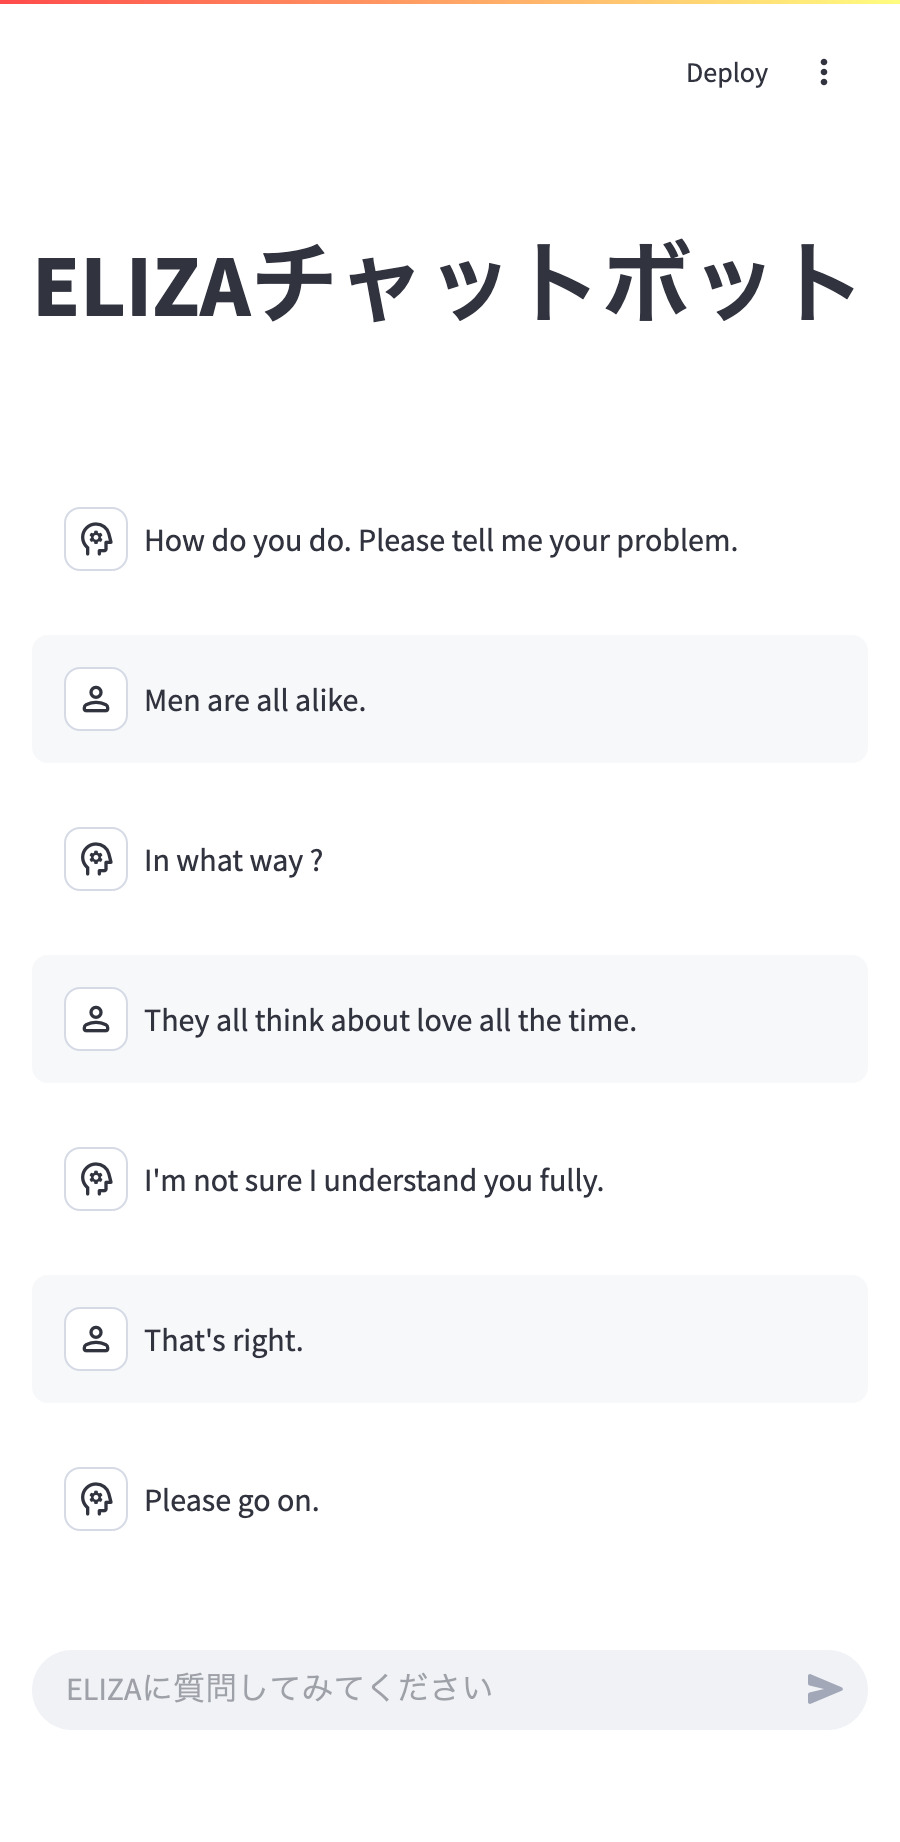
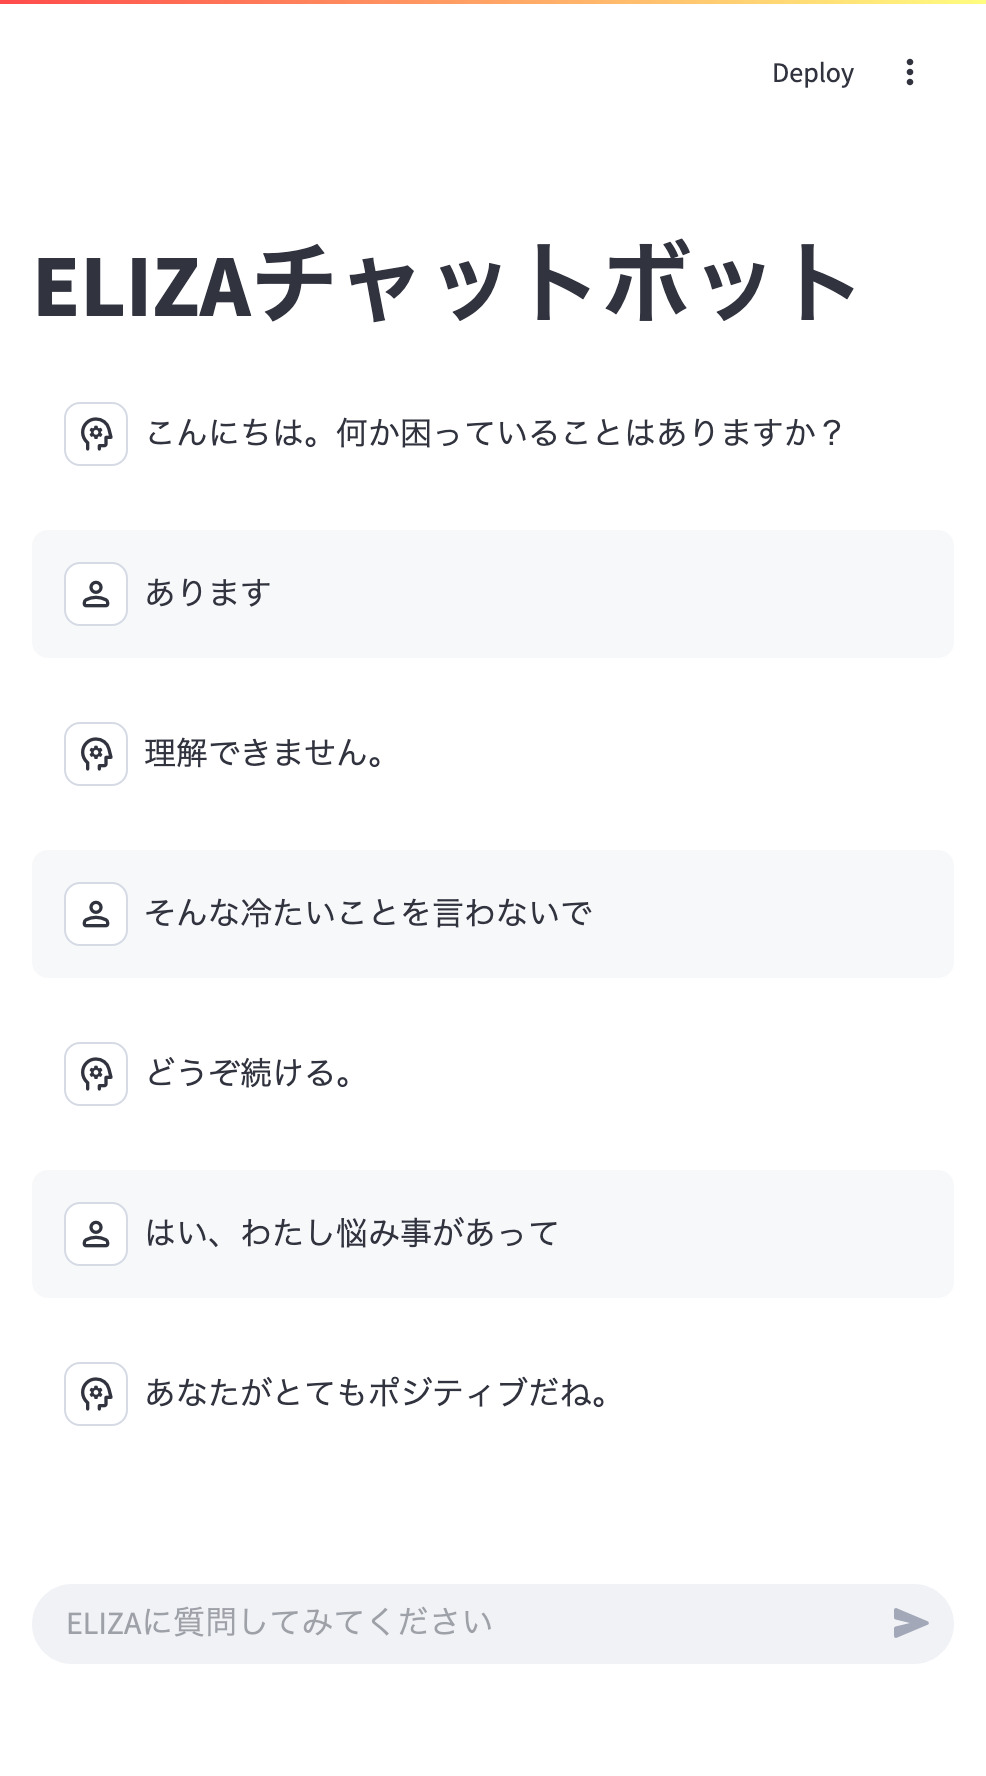
ローカルLLMに翻訳させて日本語で会話できるようにした

diff --git a/app.py b/app.py
@@ -1,7 +1,23 @@
 import streamlit as st
 from langchain.schema import AIMessage, HumanMessage
 from langchain.schema.runnable import RunnableLambda
+from langchain_openai.chat_models import ChatOpenAI
 from eliza.eliza import Eliza
+
+llm = ChatOpenAI(
+    model_name="lucas2024/gemma-2-2b-jpn-it:q8_0",
+    openai_api_base="http://localhost:11434/v1",
+    openai_api_key='ollama',
+    temperature=0.5,
+)
+
+def translate_to_english(text):
+    """日本語を英語に翻訳"""
+    return llm.invoke(f"あなたは優秀な翻訳家です。次の文を英語に翻訳して、英語だけをシンプルに返して: {text}").content
+
+def translate_to_japanese(text):
+    """英語を日本語に翻訳"""
+    return llm.invoke(f"あなたは優秀な翻訳家です。次の文を日本語に翻訳して、日本語だけをシンプルに返して: {text}").content
 
 # ===============================
 # ページ設定
@@ -23,7 +39,7 @@ if "eliza_bot" not in st.session_state:
     st.session_state.eliza_bot = Eliza()
     st.session_state.eliza_bot.load("eliza/doctor.txt")
     initial_msg = st.session_state.eliza_bot.initial()
-    st.session_state.messages.append(AIMessage(content=initial_msg))
+    st.session_state.messages.append(AIMessage(content=translate_to_japanese(initial_msg)))
 
 # ===============================
 # LangChain Expression Languageを使ったチェインの定義
@@ -50,7 +66,7 @@ if user_input:
         st.markdown(user_input)
 
     # LCELを使用してELIZAの応答を生成
-    response = eliza_chain.invoke(user_input)
+    response = translate_to_japanese(eliza_chain.invoke(translate_to_english(user_input)))
 
     ai_msg = AIMessage(content=response)
     st.session_state.messages.append(ai_msg)

diff --git a/README.md b/README.md
@@ -1,9 +1,10 @@
-# ELIZAボット
+# ELIZAボット日本語版
 
 ## 使用したもの
  - Streamlit
  - LangChain
  - https://github.com/wadetb/eliza
+ - [Ollama](https://ollama.com/)か[LM Studio](https://lmstudio.ai/)
 
 ## インストール
 ```
@@ -16,12 +17,40 @@ python3 -m pip install -r requirements.txt
 git clone https://github.com/wadetb/eliza
 ```
 
+## Ollamaの準備
+
+## Ollamaの準備
+1. Ollamaをインストール
+   - Windowsの場合は、WSL2で仮想環境から `curl -fsSL https://ollama.com/install.sh | sh` でインストール
+   - Macの場合は、[ダウンロード](https://ollama.com/download/windows)してインストール
+2. Ollamaで大規模言語モデルの `lucas2024/gemma-2-2b-jpn-it:q8_0` をpullする。
+```
+ollama pull lucas2024/gemma-2-2b-jpn-it:q8_0
+```
+※大規模言語モデルは、自由に選べ、他のものでもいい。
+
+※Ollamaの代わりに[LM Studio](https://lmstudio.ai/)も利用できる。その場合、「alfredplpl/gemma-2-2b-jpn-it」などのモデルをダウンロードする。LM Studioで、サーバーを走らせるには、左の「開発者」を選び、「Status」のトグルスイッチを切り替え「Running」にし、「Settings」で「ローカルネットワークでサービング」をオンにする。そして、app.pyの中の「BASE_URL」を `"http://localhost:1234/v1"`に変更する。右の「This model's API identifier」の値を「MODEL」に指定する。
+
+※Windowsで、WSLからLM Studioに接続するには、ローカルネットワークでサービングをオンにし、右の「The local server is reachable at this address」のIPアドレスを `localhost` の代わりに指定する。
+
 ## 実行
+最初に、プログラムを展開したフォルダに入る。
+次に仮想環境に入っていない場合(コマンドプロンプトに(venv)と表示されていないとき)、仮想環境に入る。
+```
+source venv/bin/activate
+```
+
+Ollamaが起動していないかもしれないので、仮想環境に入っている状態で、大規模言語モデルのリストを表示する(すると起動していなければ、起動する)。
+```
+ollama list
+```
+※Ollamaの代わりにLM Studioを使っている場合は不要
+
+仮想環境に入っている状態で、以下のコマンドでアプリを起動する。
+
 ```
 python3 -m streamlit run app.py
 ```
-
-※英語でのやりとりになります
 
 ![スクリーンショット](images/screenshot.jpg)
 
